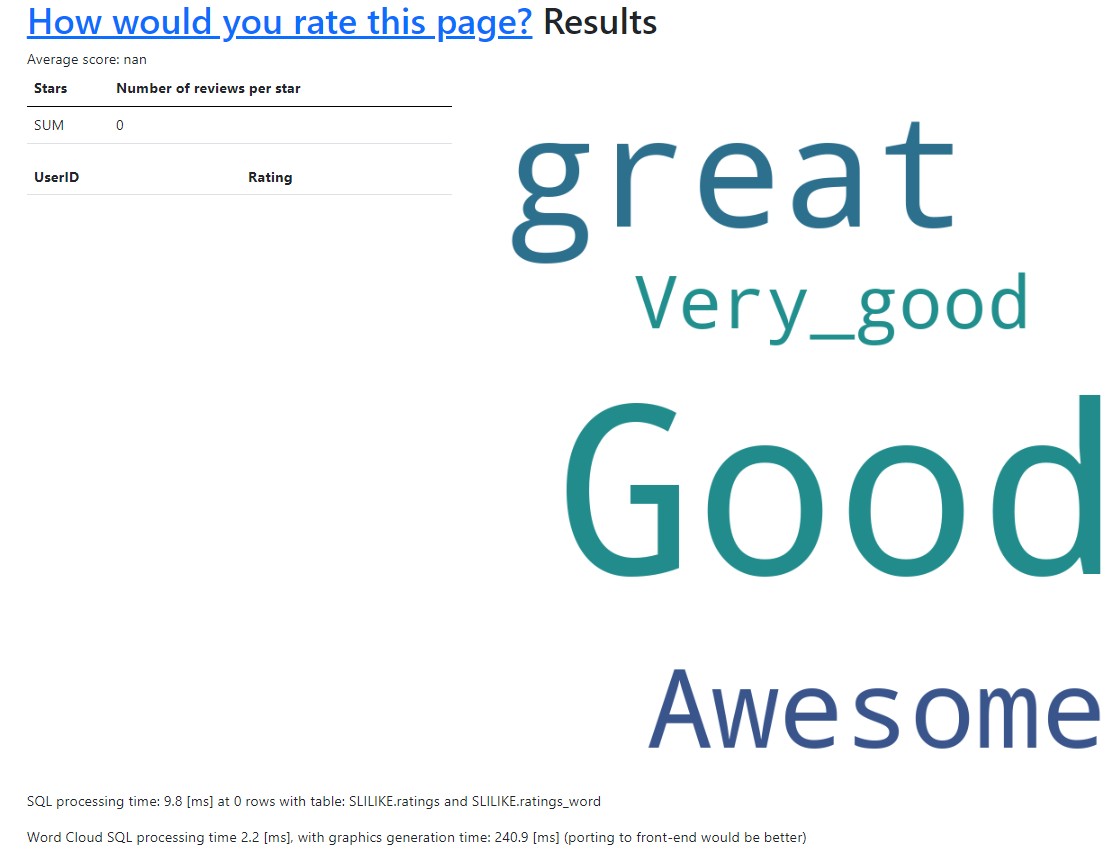
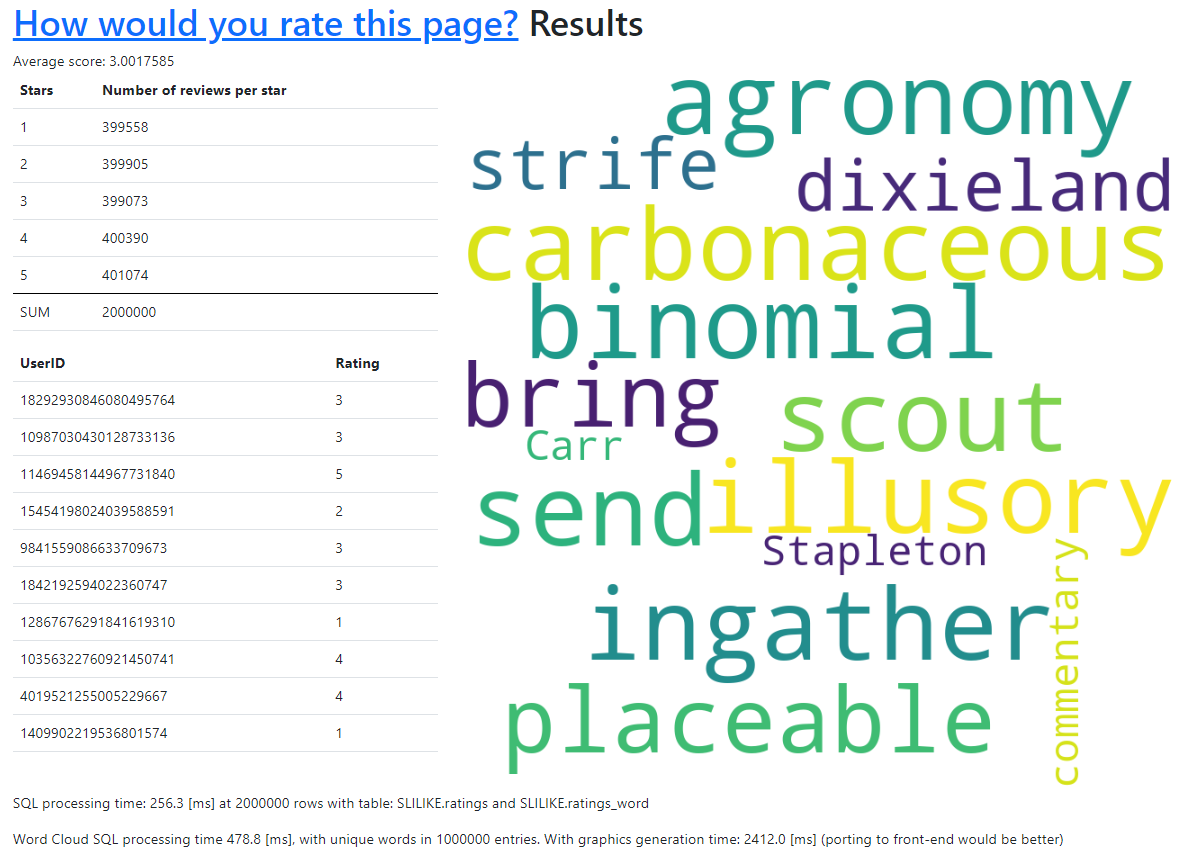
Clean up code - update word cloud, add metrics

diff --git a/templates/results.html b/templates/results.html
@@ -54,7 +54,9 @@ Not enough data
 <div class="row">
     <p>SQL processing time: {{ context.render_time }} [ms] at {{ context.star_stats_sum }} rows with
         table: {{ context.table }} and {{ context.table }}{{ context.table_word }}</p>
-    <p>Word Cloud SQL processing time {{context.word_cloud_query_time}} [ms], with graphics generation time: {{
-        context.word_cloud_gen_time }} [ms] (porting to front-end would be better)</p>
+    <p>Word Cloud SQL processing time {{context.word_cloud_query_time}} [ms],
+        with {{ context.word_cloud_cnt }} unique words in {{ context.word_cloud_all_cnt }} entries.
+        With graphics generation time: {{ context.word_cloud_gen_time }} [ms]
+        (porting to front-end would be better)</p>
 </div>
 {% endblock %}

diff --git a/simulation/inser_many_values.py b/simulation/inser_many_values.py
@@ -1,11 +1,13 @@
 import hashlib
 import random
+import re
 import string
 import time
 from datetime import datetime
+from english_words import english_words_set
 
 from clickhouse_driver import Client
-from app import table_name
+from backend.constants import table_name, word_suffix
 
 
 def randomname(length):
@@ -87,7 +89,65 @@ def insert_random_ratings_batch(user_cnt, batch_size=1000):
     print("Inserting " + str(user_cnt) + " rows took " + str((t2 - t1) / 10.0) + " ms")
 
 
-insert_random_ratings_batch(2000000, 10000)
+def insert_random_word_batch(user_cnt, word_cnt, unique_word_cnt, batch_size=10000):
+    client = Client("localhost")
+    names = {}
+    batch = []
+    b_cnt = 0
+
+    word_list = []
+    cnt = 0
+    for j in enumerate(english_words_set):
+        word_list.append(j[1])
+        cnt += 1
+        if cnt == unique_word_cnt:
+            break
+
+    t1 = int(time.perf_counter() * 10000)
+    for i in range(user_cnt):
+
+        name = randomname(random.randint(3, 20))
+        while name in names:
+            name = randomname(random.randint(3, 20))
+        names[name] = 1
+
+        name_hash = int.from_bytes(hashlib.sha256(name.encode("ascii")).digest()[:8], "little")
+
+        for j in range(word_cnt):
+            word = random.choice(word_list)
+            word_to_proc = re.sub(r'[^a-z0-9]', '', word.lower())
+            word_hash = int.from_bytes(hashlib.sha256(word_to_proc.encode("ascii")).digest()[:8], "little")
+            batch.append([name_hash, str(word), word_hash, datetime.now()])
+
+        if i != 0 and i % batch_size == 0:
+            print("Inserting batch: " + str(b_cnt))
+            b_cnt += 1
+            client.execute("INSERT INTO " + table_name + word_suffix + " VALUES", batch)
+            batch = []
+
+    print("Inserting batch: final")
+    client.execute("INSERT INTO " + table_name + word_suffix + " VALUES", batch)
+    client.disconnect()
+
+    t2 = int(time.perf_counter() * 10000)
+
+    print("Inserting " + str(user_cnt) + " rows took " + str((t2 - t1) / 10.0) + " ms")
+
+
+# 10k users, each inputs 10 words from 15 unique words
+#insert_random_word_batch(10000, 10, 15)
+
+# 100k users, each inputs 10 words from 15 unique words
+#insert_random_word_batch(100000, 10, 15)
+
+# insert random 2,000,000 ratings in batches of 10,000
+#insert_random_ratings_batch(2000000, 10000)
+
+# INEFFICIENT FOR HIGH AMOUNT OF DATA - insert 100 ratings one by one
 #insert_random_ratings(100)
+
+# INEFFICIENT FOR HIGH AMOUNT OF DATA - insert 100 ratings one by one, with debug window 1000 inserts
 #insert_random_ratings(100000, debug_window=1000)
+
+# read query
 #read_query()

diff --git a/app.py b/app.py
@@ -1,20 +1,14 @@
 import hashlib
 import re
-import functools
 import time
 from datetime import datetime
 from flask import Flask, render_template, request
 from clickhouse_driver import Client
 
-from logic.setup_db import setup_db
+from backend.constants import table_name, word_suffix
+from backend.wordcloud import create_word_cloud_from_data
+from backend.setup_db import setup_db
 
-# ratingsV3
-# ratingsV2
-# ratings
-from logic.wordcloud import create_word_cloud_from_data
-
-table_name = "SLILIKE.ratings"
-word_suffix = "_word"
 
 app = Flask(__name__)
 setup_db(app, table_name, word_suffix)
@@ -62,18 +56,21 @@ def view_results():
         "SELECT word, count(word_unique_hash), word_unique_hash FROM " + table_name
         + word_suffix + " GROUP BY word_unique_hash, word ORDER BY word_unique_hash")
 
+    app.logger.info("Selected " + str(len(words)) + " words from")
+
+    all_words_cnt = 0
     for word, cnt, hsh in words:
         if word_hash_cnt.get(hsh, 0) == 0:
             word_hash_cnt[hsh] = [word, cnt]
+            all_words_cnt += cnt
         else:
             word_hash_cnt[hsh] = [word, word_hash_cnt[hsh][1] + cnt]
+            all_words_cnt += cnt
 
     words_str = ""
-    app.logger.info(word_hash_cnt)
     for val in word_hash_cnt:
         for i in range(word_hash_cnt[val][1]):
             words_str += word_hash_cnt[val][0].replace(" ", "_") + " "
-    app.logger.info(words_str)
 
     wt1_0 = int(time.perf_counter() * 10000)
     word_cloud = create_word_cloud_from_data(words_str)
@@ -90,6 +87,8 @@ def view_results():
         "word_cloud": word_cloud,
         "word_cloud_gen_time": str((wt2 - wt1) / 10.0),
         "word_cloud_query_time": str((wt1_0 - wt1) / 10.0),
+        "word_cloud_unique_cnt": str(len(words)),
+        "word_cloud_all_cnt": str(all_words_cnt),
     }
 
     return render_template("results.html", context=context)

diff --git a/backend/wordcloud.py b/backend/wordcloud.py
@@ -10,7 +10,7 @@ from wordcloud import WordCloud
 def create_word_cloud_from_data(words):
     wordcloud = WordCloud(width=800, height=800,
                           background_color='white',
-                          min_font_size=10).generate(words)
+                          min_font_size=10, collocations=False).generate(words)
 
     image = wordcloud.to_image()
     io_bytes = io.BytesIO()

diff --git a/backend/constants.py b/backend/constants.py
@@ -1,0 +1,5 @@
+# ratingsV3
+# ratingsV2
+# ratings
+table_name = "SLILIKE.ratings"
+word_suffix = "_word"
